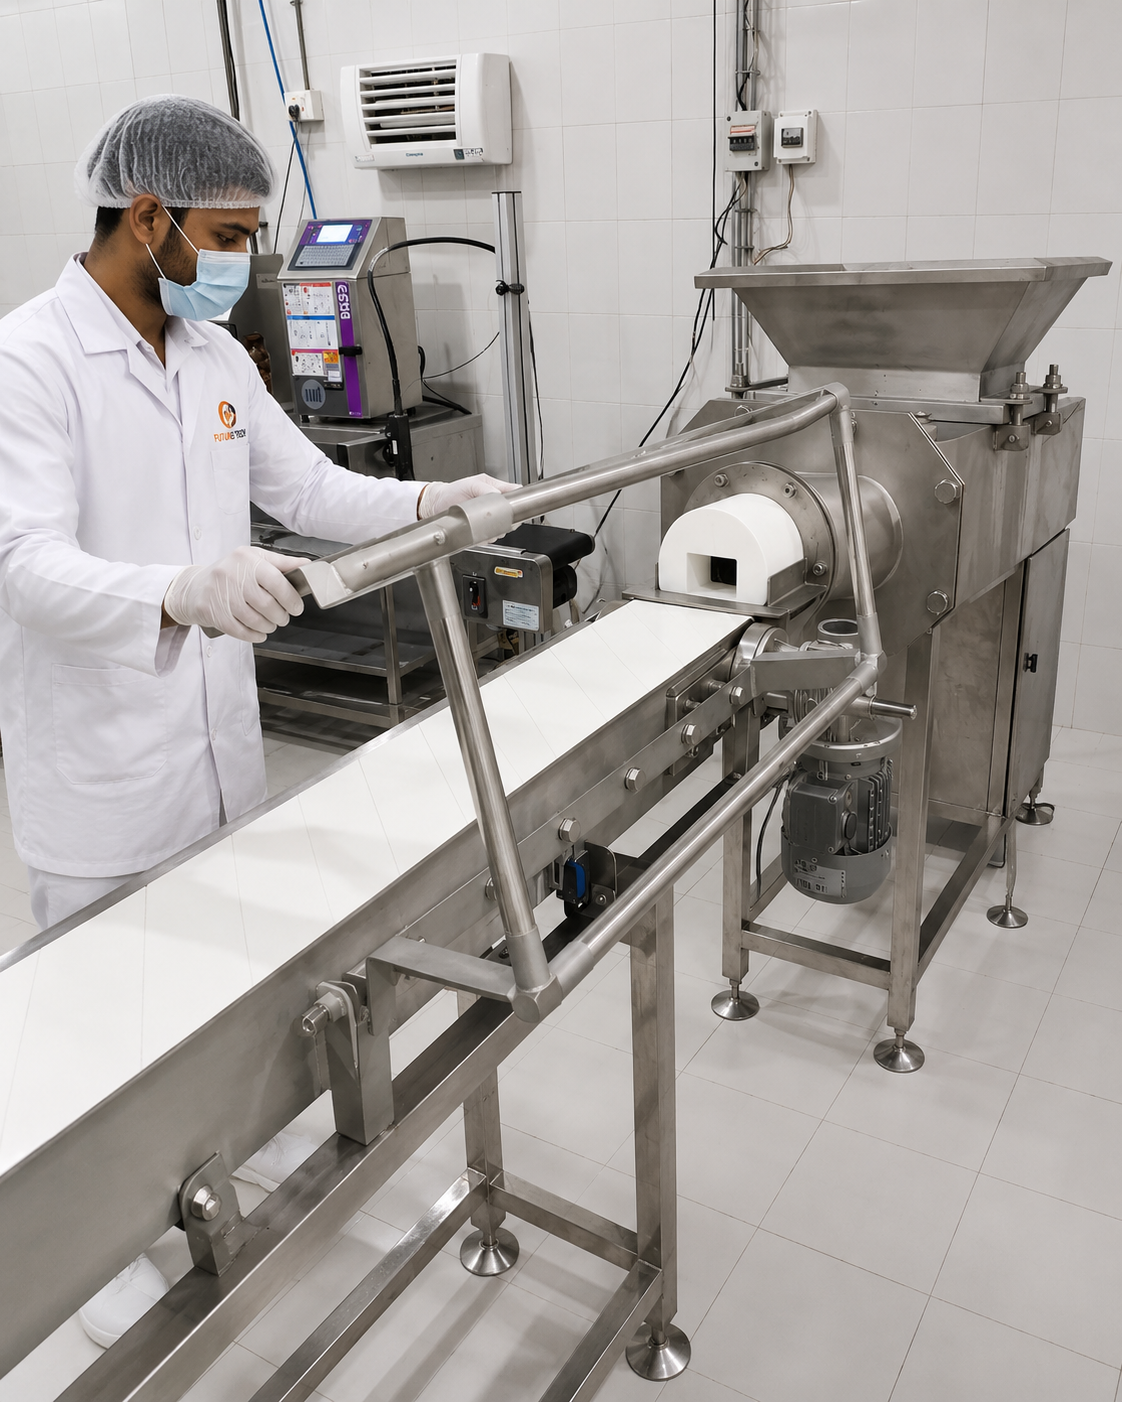
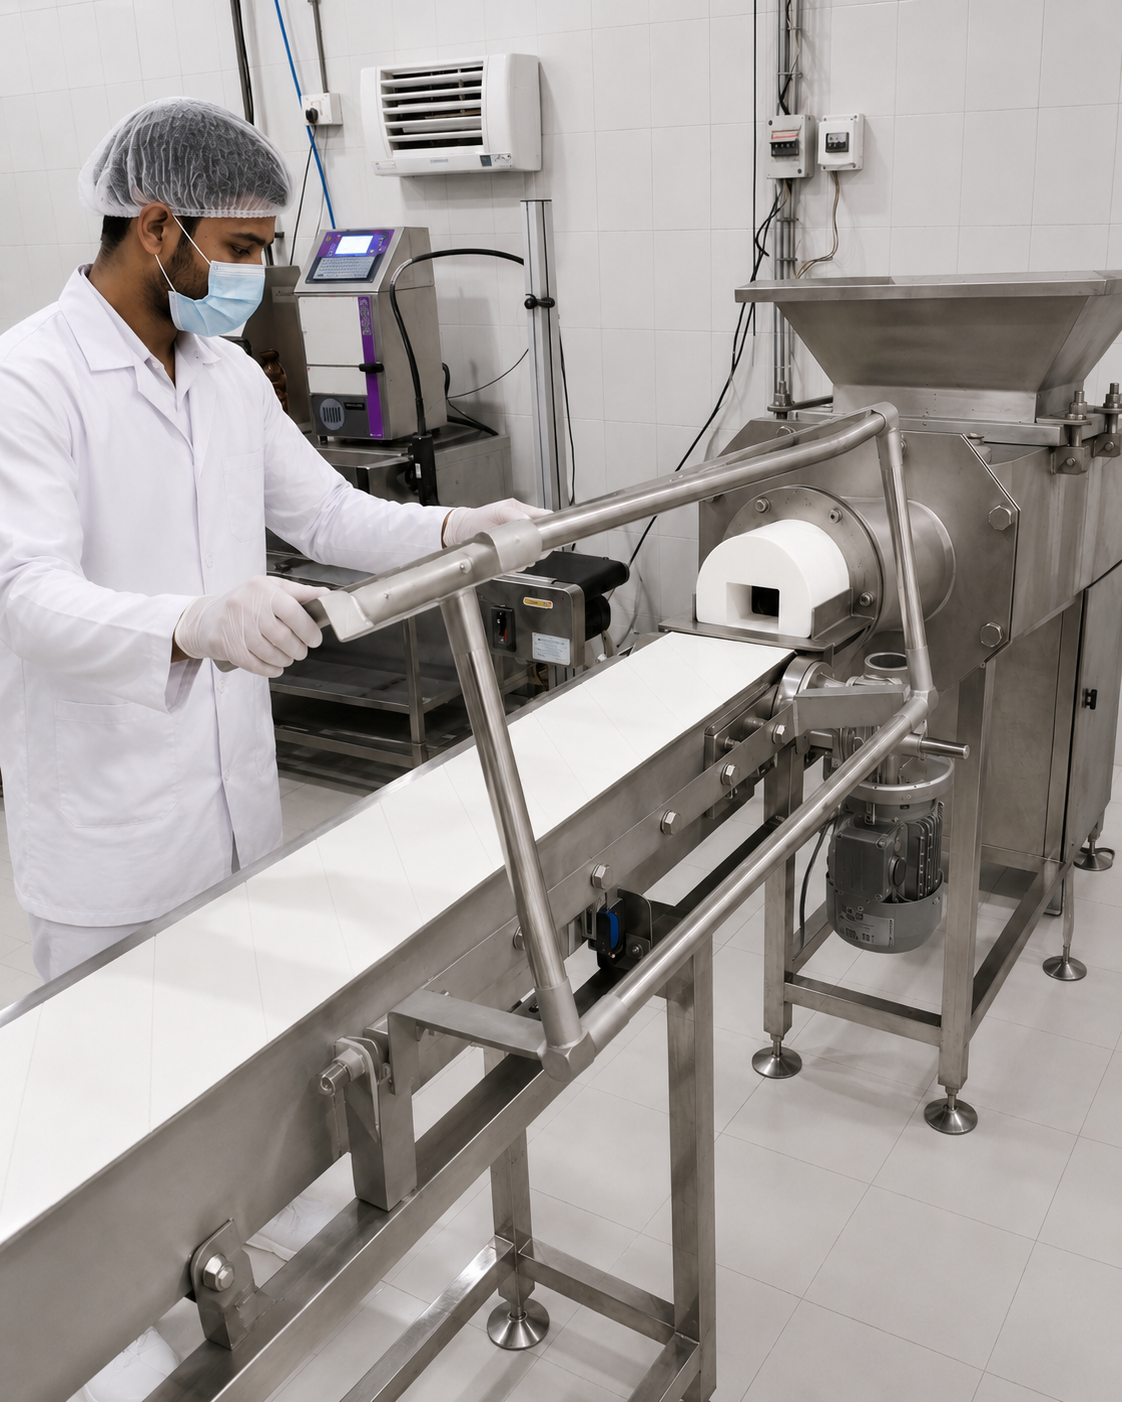
add

diff --git a/index.html b/index.html
@@ -385,7 +385,7 @@
                         <div class="row align-items-center" data-aos="fade-up">
                             <div class="col-lg-6 p-lg-0">
                                 <div class="design-left">
-                                    <img src="./Images/future-tech/img/img-2.png"
+                                    <img src="./Images/future-tech/img2/fully automatic butter extrude.png"
                                         alt="Automatic paneer making machine in India" />
                                 </div>
                             </div>
